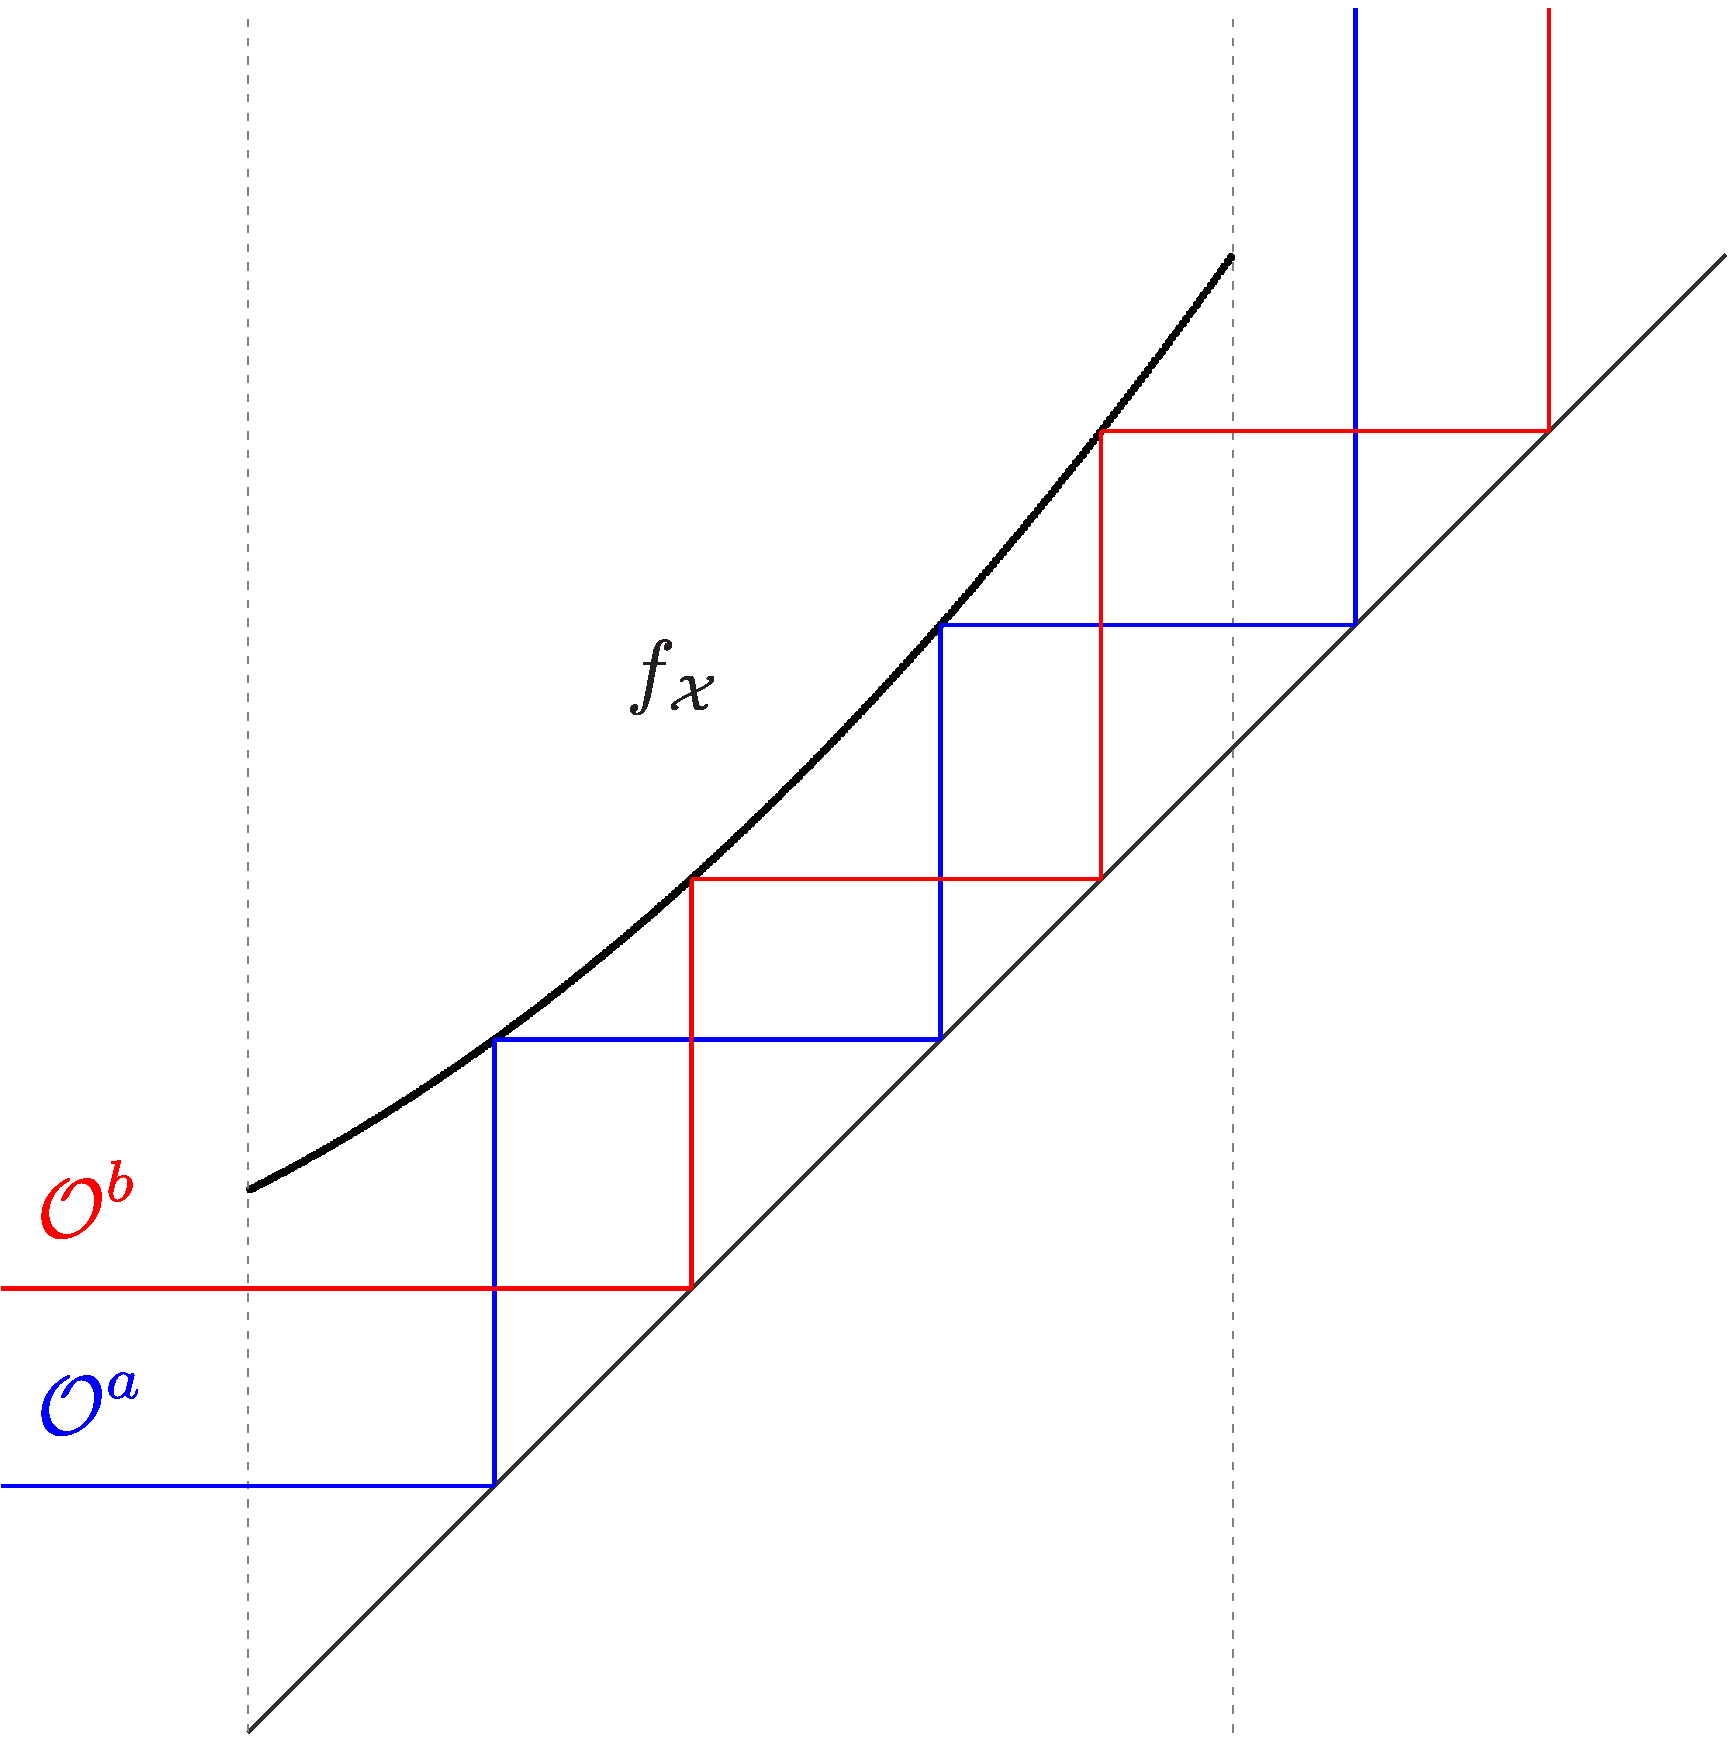
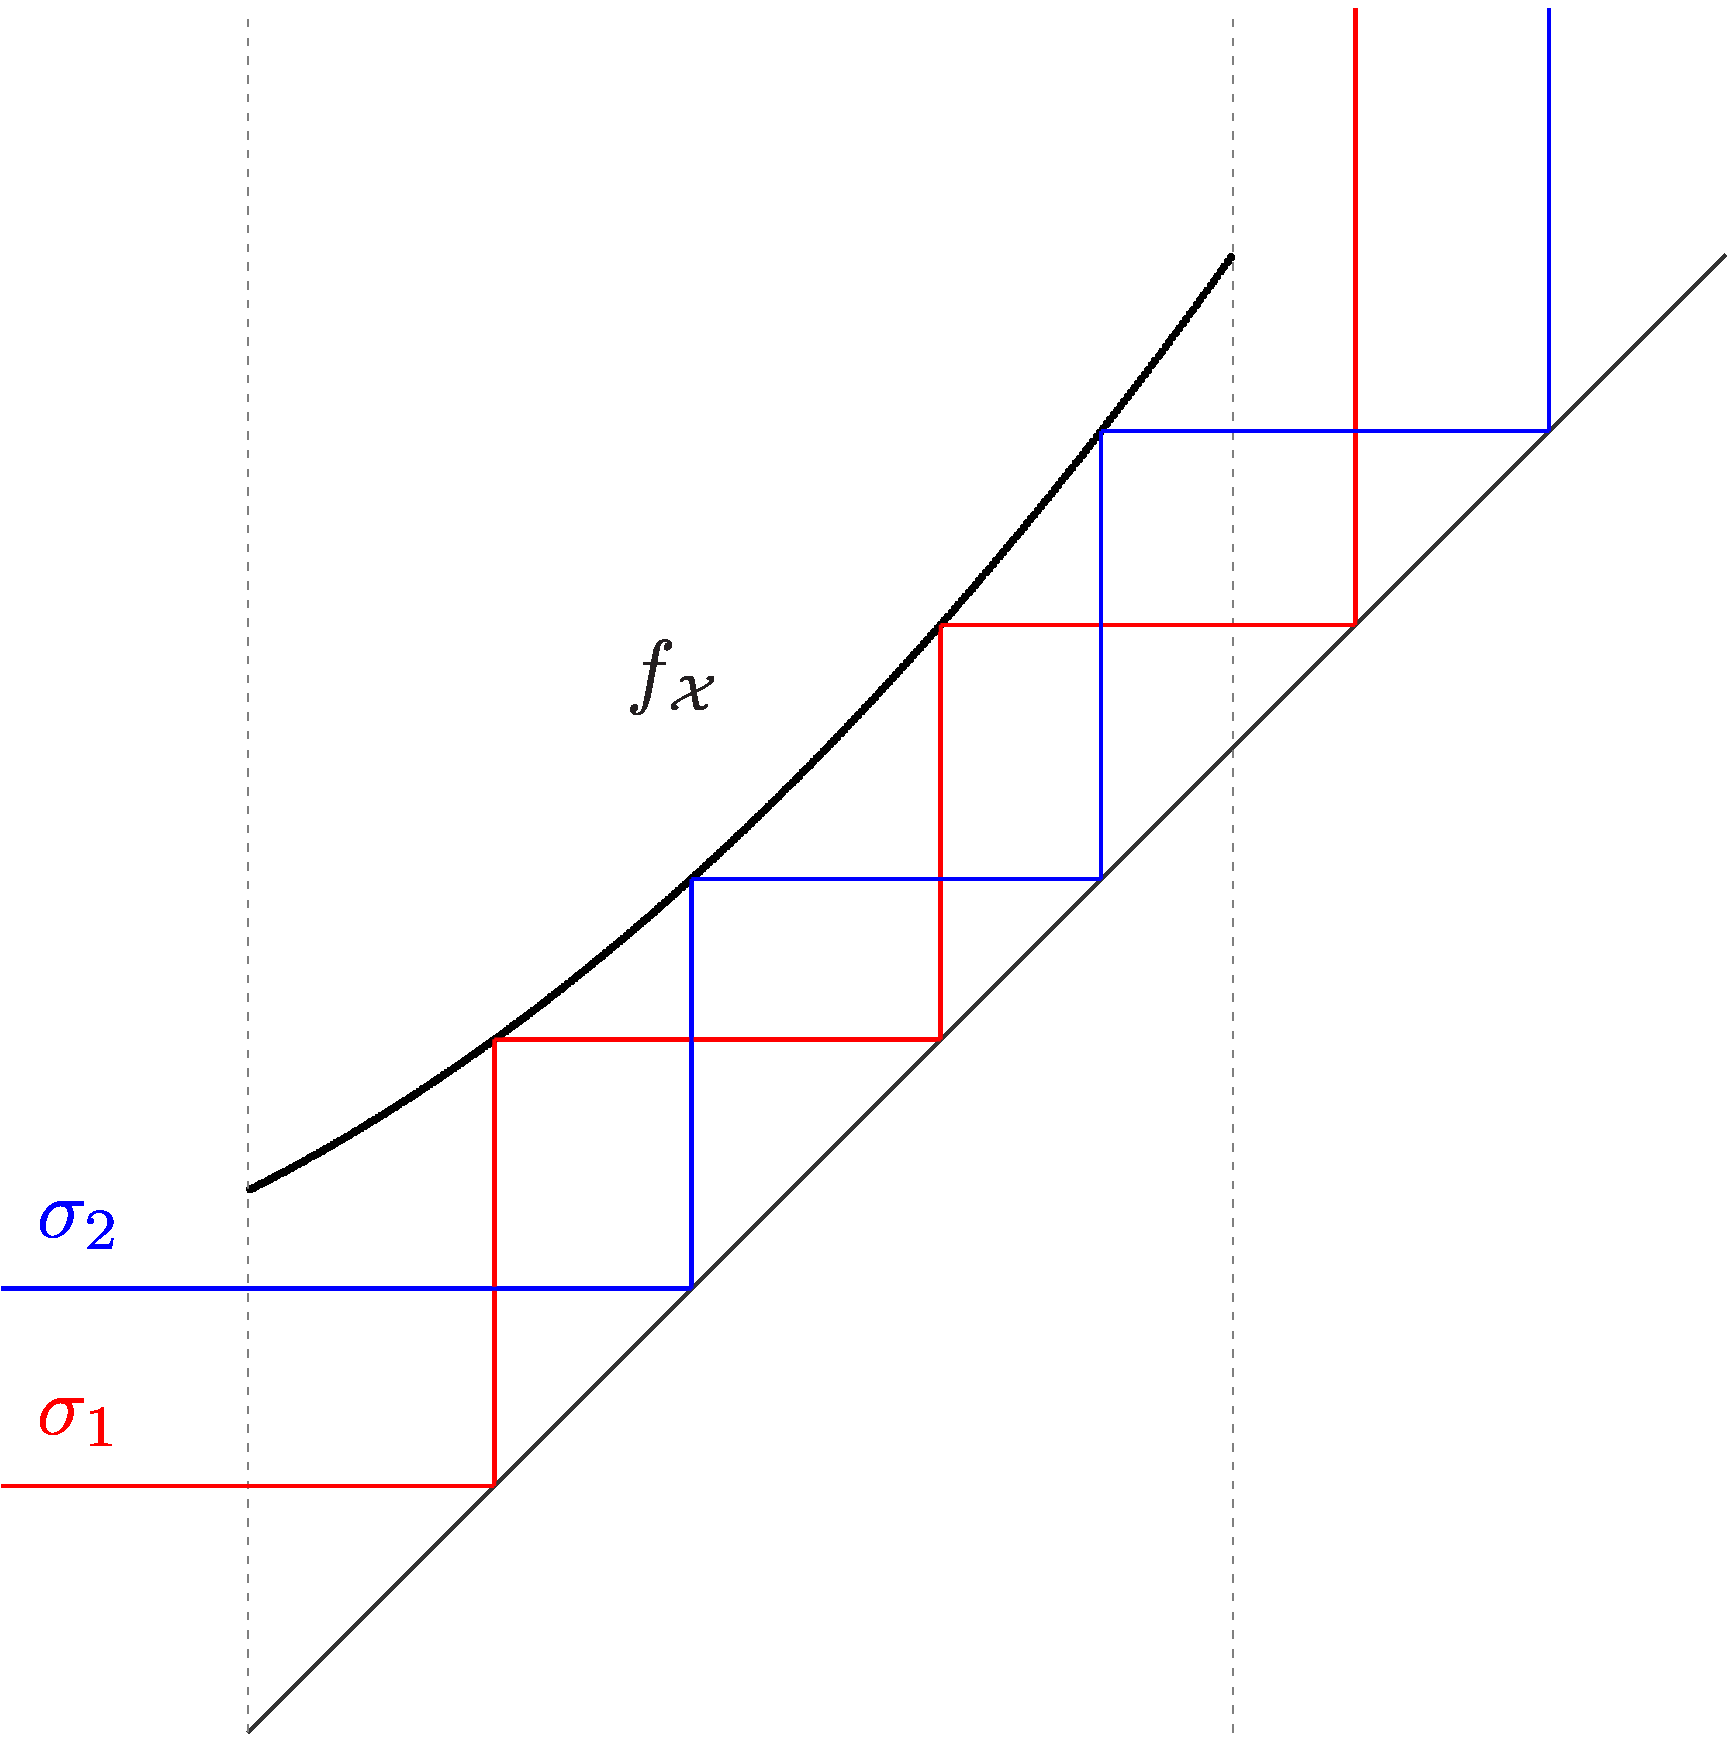
rewrite conclusion

diff --git a/Report/Sections/70_Adding/23_bif_changes_theory.tex b/Report/Sections/70_Adding/23_bif_changes_theory.tex
@@ -121,21 +121,21 @@ At the same time, these minima seem to prevent period-adding structures.
 \begin{lemma}[Number and Positions of Points of two Cycles on an Increasing Branch]
 	\hl{
 		Let $f_\X$ be an increasing branch of some model function $f$.
-		If two cycles $\O^a$ and $\O^b$ have points on this branch, there are two possibilities for the relative number of points and relative position of the points.
+		If two cycles $\sigma_1$ and $\sigma_b$ have points on this branch, there are two possibilities for the relative number of points and relative position of the points.
 	}
 	\begin{enumerate}
 		\item
 		      \hl{
 			      Both cycles have the same number of points on the branch $f_\X$.
-			      Let the first point of the cycle $\O^a$ be left of the first point of the cycle $\O^b$ on this branch w.l.o.g.
-			      Then the last point of the cycle $\O^a$ is also left of the last point of the cycle $\O^b$ on this branch.
+			      Let the first point of the cycle $\sigma_1$ be left of the first point of the cycle $\sigma_2$ on this branch w.l.o.g.
+			      Then the last point of the cycle $\sigma_1$ is also left of the last point of the cycle $\sigma_2$ on this branch.
 		      }
 		      \Cref{fig:add.change.increasing.a} illustrates this case.
 		\item
 		      \hl{
 			      One cycle has one more point on the branch $f_\X$.
-			      Let $\O^b$ be the cycle with more points on this branch w.l.o.g.
-			      Then the first point of the cycle $\O^b$ is left of the first point of the cycle $\O^a$ on this branch and the last point of the cycle $\O^b$ is right of the last point of the cycle $\O^a$ on this branch.
+			      Let $\sigma_1$ be the cycle with more points on this branch w.l.o.g.
+			      Then the first point of the cycle $\sigma_1$ is left of the first point of the cycle $\sigma_2$ on this branch and the last point of the cycle $\sigma_1$ is right of the last point of the cycle $\sigma_2$ on this branch.
 		      }
 		      \Cref{fig:add.change.increasing.b} illustrates this case.
 	\end{enumerate}
@@ -144,19 +144,19 @@ At the same time, these minima seem to prevent period-adding structures.
 
 \begin{figure}
 	\centering
-	\subfloat[Same number]{
+	\subfloat[Same number of points]{
 		\includegraphics[width=.35 \textwidth]{../Figures/7/7.10a/result.png}
 		\label{fig:add.change.increasing.a}
 	} \quad
-	\subfloat[Number differing by one]{
+	\subfloat[Number of points differing by one]{
 		\includegraphics[width=.35 \textwidth]{../Figures/7/7.10b/result.png}
 		\label{fig:add.change.increasing.b}
 	}
 	\caption[Illustration of relative number and positions of points of two cycles on an increasing branch]{
 		Illustration of relative number and positions of points of two cycles on an increasing branch.
-		Both figures show a function branch $f_\X$ and parts of two cycles.
-		(a) shows the case where both cycles have the same number of points on the branch $f_\X$ and the first point of the cycle $\O^a$ is left of the first point of the cycle $\O^b$ on this branch.
-		(a) shows the case where the cycle $\O_b$ has one point more on the branch $f_\X$ than the cycle $\O^a$ and the first point of the cycle $\O^b$ is left of the first point of the cycle $\O^a$ on this branch.
+		Both figures show a function branch $f_\X$ and parts of two cycles, $\sigma_1$ shown in red and $\sigma_2$ shown in blue.
+		(a) shows the case where both cycles have the same number of points on the branch $f_\X$ and the first point of the cycle $\sigma_1$ is left of the first point of the cycle $\sigma_2$ on this branch.
+		(a) shows the case where the cycle $\sigma_1$ has one point more on the branch $f_\X$ than the cycle $\sigma_2$ and the first point of the cycle $\sigma_1$ is left of the first point of the cycle $\sigma_2$ on this branch.
 	}
 	\label{fig:add.change.increasing}
 \end{figure}

diff --git a/Report/Sections/90_Conclusion/00_conclusion.tex b/Report/Sections/90_Conclusion/00_conclusion.tex
@@ -1,32 +1,7 @@
 \chapter{Conclusion}
 
-This chapter summarizes all findings of this thesis.
-It is divided into two bigger parts.
+This chapter summarizes all findings of this thesis and touches on some topics that can be investigated next based on the finding s of this thesis.
+Therefore, it is divided into two sections.
 
-First, we analyzed the original model function and the parameter effects on the model function in the original model.
-We then identified the characteristics of the model function and parameter effects that are needed for the \gls{pi} structure of interest by constructing the archetypal model.
-This model has 4 branches $f_\A, f_\B, f_\C,$ and $f_\D$ like the original model.
-And it is symmetric like the original model.
-The branches $f_\A$ and $f_\C$ are quadratic and both governed by a function $g_L(x) = a_L \cdot x^2 + b_L \cdot x + c_L$, while the branches $f_\B$ and $f_\D$ are linear and governed by a function $g_R(x) = b_L \cdot x + c_L$.
-One parameter of the archetypal model is chosen to directly manipulate a specific characteristic of the model function, namely the value of $g_R$ at the left border of the branches $f_\B$ and $f_\D$.
-It is named $\alpha = g_R\left(\frac{1}{4}\right)$ and its value influences the parameters $b_R$ and $c_R$.
-Hence, it is called a \hl{composite} parameter.
-The other parameter is just the offset of the branches $f_\A$ and $f_\D$, $\beta = c_L$.
-
-\todo{Too detailed? Previously I felt it was too shallow, so I added the archetypal model definition}
-
-We confirmed that this archetypal model in fact exhibits the same behavior as the original model.
-While doing so we even found the coexistence of four cycles which was not discovered previously in the original model and confirmed its existence in the original model.
-Using the characteristics of that we found to be essential for the \gls{pi} structure of interest, we were able to explain the structure.
-
-Secondly, we demonstrated that the archetypal model proposed in this thesis can also exhibit \gls{pa} behavior.
-We found that these structures defied our expectations for \gls{pa}, since the periods did not add up as they normally would and there were no obvious regularities in the symbolic sequences associated with the parameter regions in these structures.
-Hence, we called them \gls{pal} structures.
-Then we introduced the halved archetypal model where we took advantage of the symmetry in the archetypal model.
-The halved archetypal model exhibits the expected behavior of \gls{pa} structures.
-With this model we were able to formulate rules for the \gls{pal} structures.
-This includes rules for the periods, symbolic sequences, coexistence, and rotation tuples associated with the parameter regions of these \gls{pal} structures.
-
-\todo{Rules too complicated to describe in a few sentences. Should I write something about the periods? Sometimes double sometimes not}
-
-\todo{Coexistence similar to ``type B'' parameter regions}
+\input{Sections/90_Conclusion/01_summary.tex}
+\input{Sections/90_Conclusion/02_future.tex}

diff --git a/Report/Sections/90_Conclusion/01_summary.tex b/Report/Sections/90_Conclusion/01_summary.tex
@@ -1,0 +1,31 @@
+\section{Summary}
+\label{sec:concl.sum}
+
+This section summarizes all findings, it is divided into two logical parts.
+
+First, the original model function and the parameter effects on the model function in the original model were analyzed.
+Then, the characteristics of the model function and parameter effects that are needed for the \gls{pi} structure of interest were identified.
+This is achieved by constructing the archetypal model, a model that is simpler than the original model and exhibits the same behavior.
+This model has 4 branches $f_\A, f_\B, f_\C,$ and $f_\D$ like the original model.
+And it is symmetric like the original model.
+The branches $f_\A$ and $f_\C$ are quadratic and both governed by a function $g_L(x) = a_L \cdot x^2 + b_L \cdot x + c_L$, while the branches $f_\B$ and $f_\D$ are linear and governed by a function $g_R(x) = b_L \cdot x + c_L$.
+One parameter of the archetypal model is chosen to directly manipulate a specific characteristic of the model function, namely the value of $g_R$ at the left border of the branches $f_\B$ and $f_\D$.
+It is named $\alpha = -g_R\left(\frac{1}{4}\right)$ and its value influences the parameters $b_R$ and $c_R$.
+Hence, it is called a composite parameter.
+It has negative sign, to orient the \gls{pi} structure in the archetypal model like in the original model.
+The other parameter is just the offset of the branches $f_\A$ and $f_\D$, $\beta = c_L$.
+
+Then it was confirmed that this archetypal model exhibits the same behavior as the original model.
+While doing so, the coexistence of four cycles which was not discovered previously in the original model was found.
+And its existence in the original model was confirmed.
+Also, the \gls{pi} structure of interest was explained using the characteristics that were found to be essential for the \gls{pi} structure.
+
+Second, it was demonstrated that the archetypal model proposed in this thesis can also exhibit \gls{pa} behavior.
+It was found that these structures defy the expectations for \gls{pa} structures, since the periods did not add up as they normally would and there were no obvious regularities in the symbolic sequences associated with the parameter regions in these structures.
+Hence, they are called \gls{pal} structures.
+Some parameter regions in these \gls{pal} structures are also affected by multistability like the ``type B'' parameter regions in the original and the archetypal model.
+Then the halved archetypal model was introduced.
+It was created by taking advantage of the symmetry in the archetypal model.
+The same structures in the halved archetypal model exhibit the expected behavior of \gls{pa} structures and no parameter regions of these structures are affected by multistability.
+With the help of this model, rules for the \gls{pal} structures in the archetypal model were formulated.
+This includes rules for the periods, symbolic sequences, multistability, and rotation tuples associated with the parameter regions of these \gls{pal} structures.

diff --git a/Report/Sections/90_Conclusion/02_future.tex b/Report/Sections/90_Conclusion/02_future.tex
@@ -1,0 +1,22 @@
+\section{Future Work}
+\label{sec:concl.future}
+
+This section touches on some phenomena that were discovered but not explained in this thesis.
+Again, this section is divided into two logical parts.
+
+First, the theory of the halved archetypal model was fully developed in the later part of this thesis.
+It might be possible to explain the regularities of the bifurcations at the boundaries of ``type B'' parameter regions as they are described in \Cref{sec:arch.bif.sum}.
+The regularities being that at the upper boundary of a ``type A'' parameter region, the border collision bifurcation is $\BCB_{d1, d_2}^{\underline{\A}^a\B^b\underline{\C}^a\D^b}$ while at the upper boundary of a ``type B'' parameter region, there are two border collision bifurcations $\BCB_{d_1}^{\underline{\A}^a\B^b\C^c\D^d}$ and $\BCB_{d_3}^{\A^c\B^d\underline{\C}^a\D^d}$.
+Note that in the ``type A'' parameter boundary border collision bifurcation, two points of the branches $f_\A$ and $f_\C$ collide with the borders $d_1$ and $d_3$ respectively.
+While in the ``type B'' border collision bifurcations this distributes onto both border collision bifurcations.
+Here, the point of the branch $f_\A$ collides with the border $d_1$ for the cycle $\Cycle{\A^a\B^b\C^c\D^d}$ and the point of the branch $f_\C$ collides with $d_3$ for the cycle $\Cycle{\A^c\B^d\C^a\D^b}$.
+The interesting part is that this distribution inverts for the lower boundary.
+At the lower boundary, the point of the branch $f_\D$ collides with the border $d_3$ for the cycle $\Cycle{\A^a\B^b\C^c\D^d}$ and the point of the branch $f_\B$ collides with the border $d_1$ for the cycle $\Cycle{\A^c\B^d\C^a\D^b}$.
+And for the right and left boundaries of the parameter regions this distribution of border collisions onto two bifurcations in the case of ``type B'' parameter regions is similar.
+
+Second, \Cref{sec:arch.end} describes how the chains of parameter regions associated with the same period start falling apart for larger values of $\beta = c_L$.
+This agrees with the behavior of the original model where the chains also start falling apart for larger values of $\chi_0$.
+Nonetheless, this thesis proposes ways to obtain full chains with the archetypal model or a similar model.
+These could be investigated in future work.
+
+\todo{Adding / chaos upper right its in 64 adding large aL?}

diff --git a/Report/Sections/01_content.tex b/Report/Sections/01_content.tex
@@ -9,5 +9,4 @@
 
 \input{Sections/70_Adding/00_adding.tex}
 
-\input{Sections/80_Outlook/00_outlook.tex}
 \input{Sections/90_Conclusion/00_conclusion.tex}
